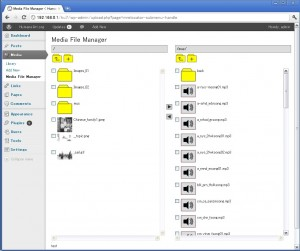
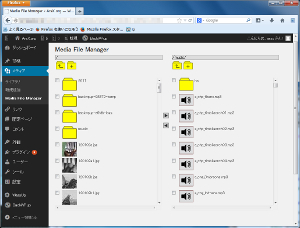
add 1.3.0 from http://plugins.svn.wordpress.org/media-file-manager/tags/1.3.0/

diff --git a/media-relocator.js b/media-relocator.js
@@ -21,7 +21,7 @@ jQuery(document).ready(function()
 	pane_left.opposite = pane_right;
 	pane_right.opposite = pane_left;
 
-	adjust_layout();
+	//adjust_layout();
 
 	pane_left.setdir("/");
 	pane_right.setdir("/");
@@ -58,7 +58,13 @@ jQuery(document).ready(function()
 		});
 	});
 
+	jQuery(window).resize(function() {
+		//jQuery('#debug').html(jQuery('#wpbody').height());
+		adjust_layout();
+	});
 
+	
+	adjust_layout();
 });
 
 
@@ -196,7 +202,7 @@ MrlPaneClass.prototype.dir_ajax = function(target_dir,dirj)
 	for (i=0; i<dir.length; i++) {
 		if (dir[i].isthumb) continue;
 		this.dir_disp_list[disp_num] = i;
-		html = html+'<div style="vertical-align:middle;display:block;height:55px;clear:both; background-color:#fff;position:relative;">';
+		html = html+'<div style="vertical-align:middle;display:block;height:55px;clear:both; position:relative;">';
 		if (this.flg_chkbox) {
 			html = html + '<div style="float:left;"><input type="checkbox" id="'+this.get_chkid(disp_num)+'"></div>';
 		}
@@ -610,12 +616,17 @@ function adjust_layout()
 	var width_center =jQuery('#mrl_center_wrapper').width(); 
 	var height_mrl_box = jQuery('.mrl_box1').height();
 
-	var pane_w = (width_all - width_center)/2-1;
+	var position = jQuery('#wpbody').offset();
+	height_all = jQuery(window).height() - position.top - 100;
+
+
+
+	var pane_w = (width_all - width_center)/2-16;
 	jQuery('.mrl_wrapper_pane').width(pane_w);
 	jQuery('.mrl_path').width(pane_w);
 	jQuery('.mrl_pane').width(pane_w);
 	jQuery('.mrl_pane').height(height_all - height_mrl_box);	
-	jQuery('.mrl_filename').width(pane_w-200);
+	jQuery('.mrl_filename').width(pane_w-32);
 }
 
 

diff --git a/style.css b/style.css
@@ -7,7 +7,8 @@
 
 #mrl_wrapper_all {
 	position:relative;
-	width:800px;
+	//width:800px;
+	width:auto;
 	height:655px;
 	bborder: solid 1px #0ff;
 }
@@ -18,6 +19,8 @@
 	height:18px;
 	background-color:#ddd;
 	border: 1px solid #888;
+	font-size: 14px;
+	padding: 0px;
 }
 
 .mrl_wrapper_pane {

diff --git a/media-relocator.php b/media-relocator.php
@@ -3,7 +3,7 @@
 Plugin Name: Media File Manager
 Plugin URI: http://tempspace.net/plugins/?page_id=111
 Description: You can make sub-directories in the upload directory, and move files into them. At the same time, this plugin modifies the URLs/path names in the database. Also an alternative file-selector is added in the editing post/page screen, so you can pick up media files from the subfolders easily.
-Version: 1.2.1
+Version: 1.3.0
 Author: Atsushi Ueda
 Author URI: http://tempspace.net/plugins/
 License: GPL2
@@ -15,7 +15,7 @@ if (!is_admin()) {
 
 define("MLOC_DEBUG", 0);
 
-//function dbg2($str){$fp=fopen("log.txt","a");fwrite($fp,$str . "\n");fclose($fp);}
+function dbg2($str){}//{$fp=fopen("log.txt","a");fwrite($fp,$str . "\n");fclose($fp);}
 
 include 'set_document_root.php';
 $mrelocator_plugin_URL = mrl_adjpath(plugins_url() . "/" . basename(dirname(__FILE__)));
@@ -184,7 +184,7 @@ function mrelocator_getdir_callback()
 			}
 		}
 	}
-	usort($dir1, mrelocator_dircmp);
+	usort($dir1, "mrelocator_dircmp");
 	for ($i=count($dir1)-1; $i>=0; $i--) {
 		$dir1[$i]['id'] = "";
 		if ($dir1[$i]['isdir']) {
@@ -312,7 +312,6 @@ function mrelocator_get_subdir($dir)
 {
 	global $mrelocator_uploaddir;
 	$upload_dir = $mrelocator_uploaddir;
-	$upload_dir = substr($upload_dir, 0, strlen($upload_dir)-strlen($upload_dir_a['subdir']));
 	$subdir = substr($dir,  strlen($upload_dir));
 	if (substr($subdir,0,1)=="/" || substr($subdir,0,1)=="\\") {
 		$subdir = substr($subdir, 1);
@@ -576,7 +575,6 @@ function mrelocator_url2path($url)
 function mrelocator_path2url($pathname)
 {
 	$wu = wp_upload_dir();
-
 	$wp_content_dir = str_replace("\\","/", $wu['basedir']);
 	$wp_content_dir = str_replace("//","/", $wp_content_dir);
 	$path = str_replace("\\","/",$pathname);
@@ -675,6 +673,15 @@ function mrelocator_admin_magic_function()
 			}
 		}
 		update_option('mediafilemanager_accepted_roles', $roles_val);
+
+		$roles_val = "";
+		for ($i=0; $i<count($roles); $i++) {
+			if (!empty($_POST['roles_sel_'.$roles[$i]])) {
+				if ($roles_val != "") $roles_val .= ",";
+				$roles_val .= $roles[$i];
+			}
+		}
+		update_option('mediafilemanager_accepted_roles_selector', $roles_val);
 	}
 
 	?>
@@ -685,10 +692,11 @@ function mrelocator_admin_magic_function()
 		<?php 
 		wp_nonce_field('update-options');
 		$accepted_roles = get_option("mediafilemanager_accepted_roles", "administrator");
+		$accepted_roles_selector = get_option("mediafilemanager_accepted_roles_selector", "administrator,editor,author,contributor,subscriber");
 		?>
 		<table class="form-table">
 		<tr>
-		<th>This plugin can be used by </th>
+		<th>File Manager can be used by </th>
 		<td style="text-align: left;">
 <?php
 	$accepted = explode(",", $accepted_roles);
@@ -703,12 +711,36 @@ function mrelocator_admin_magic_function()
 			}
 		}
 
-		echo '<input type="checkbox" name="roles_'.$key.'" id="roles_'.$key.'" '.$ck.'>'.$key.'</input><br>';
+		echo '<input type="checkbox" name="roles_'.$key.'" id="roles_'.$key.'" '.$ck.'>'.$key.'</input><br>'."\n";
 	}
 ?>
 
 		</td>
 		</tr>
+		<th>File Selector can bu used by </th>
+		<td style="text-align: left;">
+<?php
+	$accepted = explode(",", $accepted_roles_selector);
+	for($i=0; $i<count($roles); $i++) { 
+		$key = $roles[$i];
+
+		$ck = "";
+		for ($j=0; $j<count($accepted); $j++) {
+			if ($key == $accepted[$j]) {
+				$ck = "checked";
+				break;
+			}
+		}
+
+		echo '<input type="checkbox" name="roles_sel_'.$key.'" id="roles_sel_'.$key.'" '.$ck.'>'.$key.'</input><br>'."\n";
+	}
+?>
+
+		</td>
+		</tr>
+		
+		<tr>
+		<td>
 
 		</table>
 		<input type="hidden" name="action" value="update" />

diff --git a/media-selector.php b/media-selector.php
@@ -337,6 +337,10 @@ HTML;
 	 */
 	public function onMediaButtons()
 	{
+		$cur_roles0 = get_option('mediafilemanager_accepted_roles_selector', 'administrator,editor,author,contributor,subscriber');
+		$cur_roles = explode(',', $cur_roles0);
+		if (!check_user_role($cur_roles)) return;
+
 		global $post_ID, $temp_ID;
 
 		$id     = (int)( 0 == $post_ID ? $temp_ID : $post_ID );
@@ -388,8 +392,10 @@ HTML;
 	}
 }
 
+
+
 // create an instance of plugin
-if( 1 )
+if (1) 
 {
 	$MrlMediaSelector = new MrlMediaSelector();
 
@@ -422,5 +428,35 @@ if( 1 )
 			$MrlMediaSelector->onMediaButtonPage();
 		}
 	}
+}
+//add_action( 'admin_init', 'MrlMediaButtonInit' );
+
+function check_user_role($roles,$user_id=NULL) {
+	// Get user by ID, else get current user
+	if ($user_id)
+		$user = get_userdata($user_id);
+	else
+		$user = wp_get_current_user();
+ 
+	// No user found, return
+	if (empty($user))
+		return FALSE;
+ 
+	// Append administrator to roles, if necessary
+	if (!in_array('administrator',$roles))
+		$roles[] = 'administrator';
+ 
+	// Loop through user roles
+	//echo "<pre>";print_r($roles);echo "</pre>";
+	foreach ($user->roles as $role) {
+	//echo $role;
+		// Does user have role
+		if (in_array($role,$roles)) {
+			return TRUE;
+		}
+	}
+ //echo "<br>false<br>";
+	// User not in roles
+	return FALSE;
 }
 ?>
